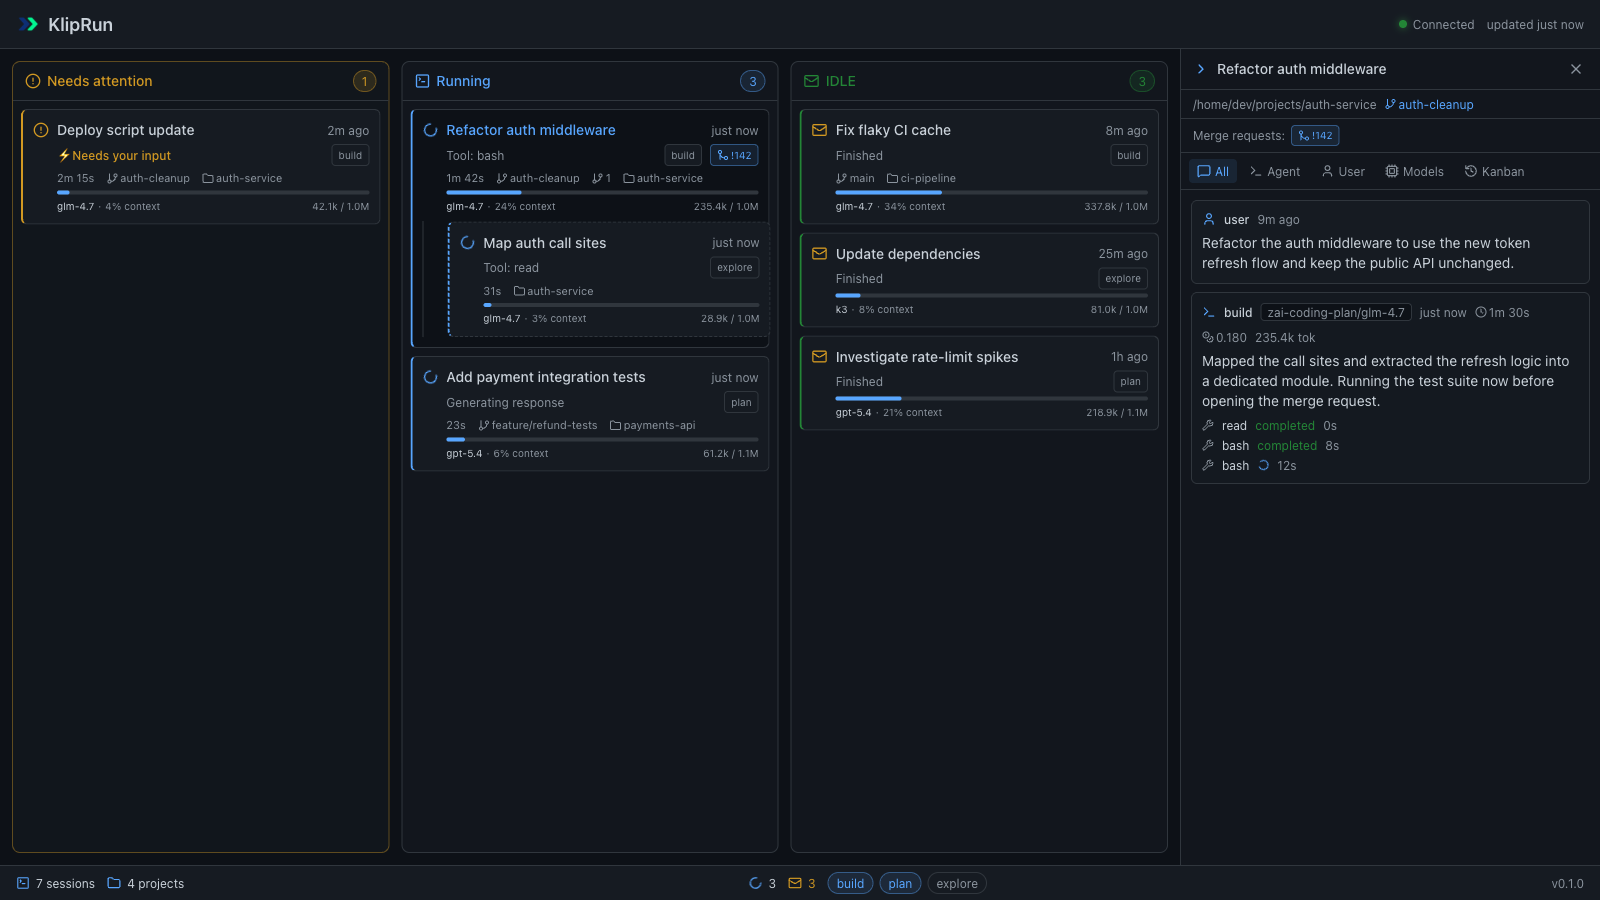
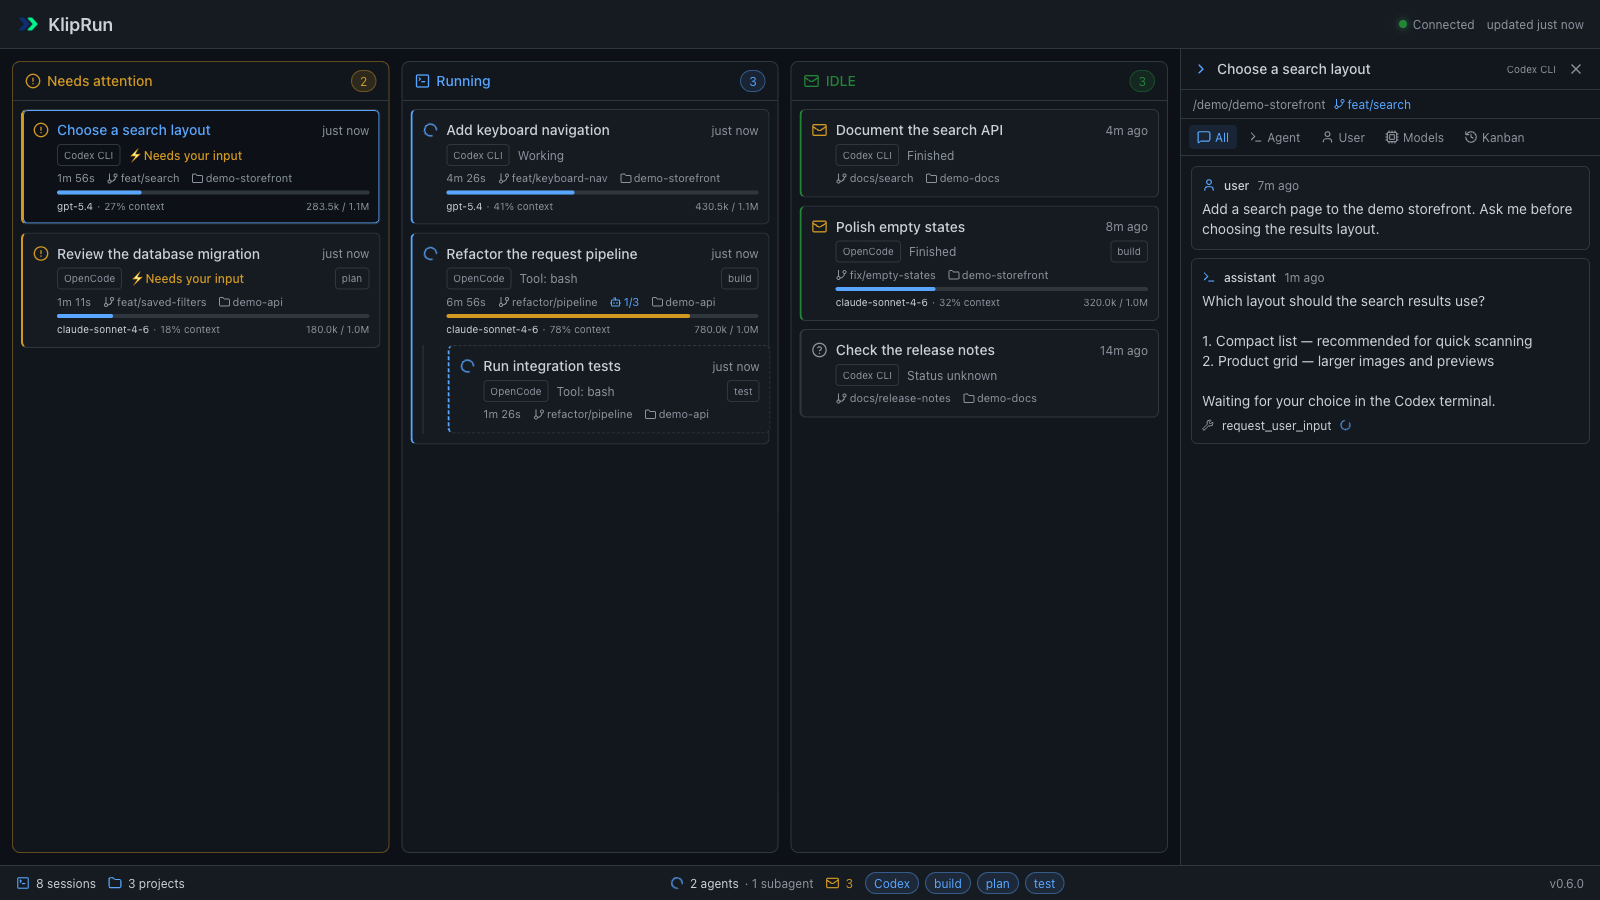
KlipRun: refresh preview with fictional Codex and OpenCode sessions

diff --git a/README.md b/README.md
@@ -17,6 +17,8 @@ updates reach the browser in ~100 ms over Server-Sent Events.
 
 ![KlipRun dashboard](docs/screenshot.png)
 
+*Demo data: fictional OpenCode and Codex CLI sessions, projects and messages.*
+
 ## Features
 
 - Three columns: **Needs attention**, **Running**, and **IDLE**.
